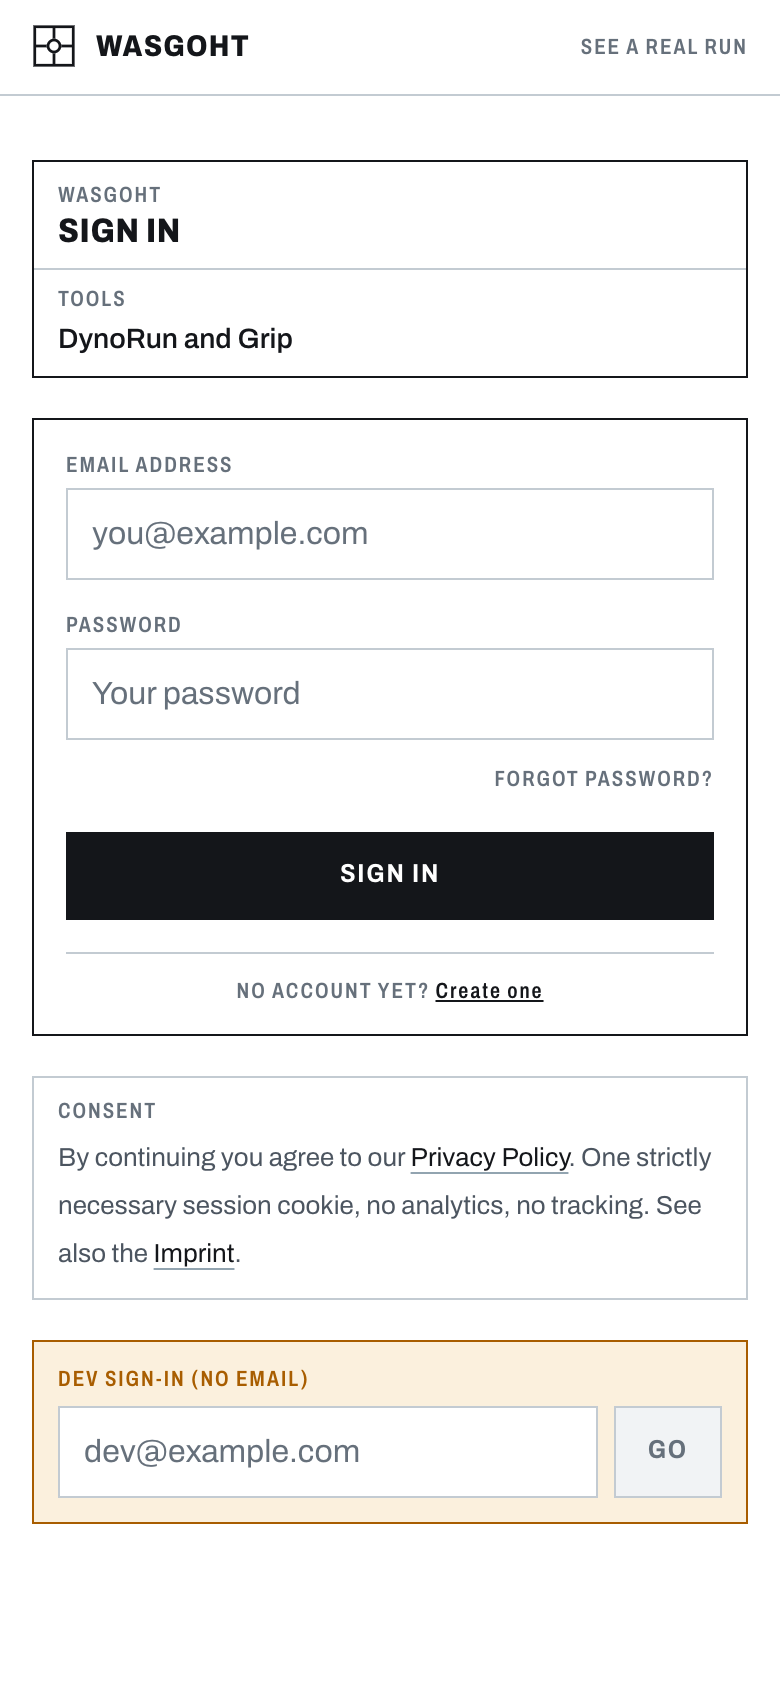
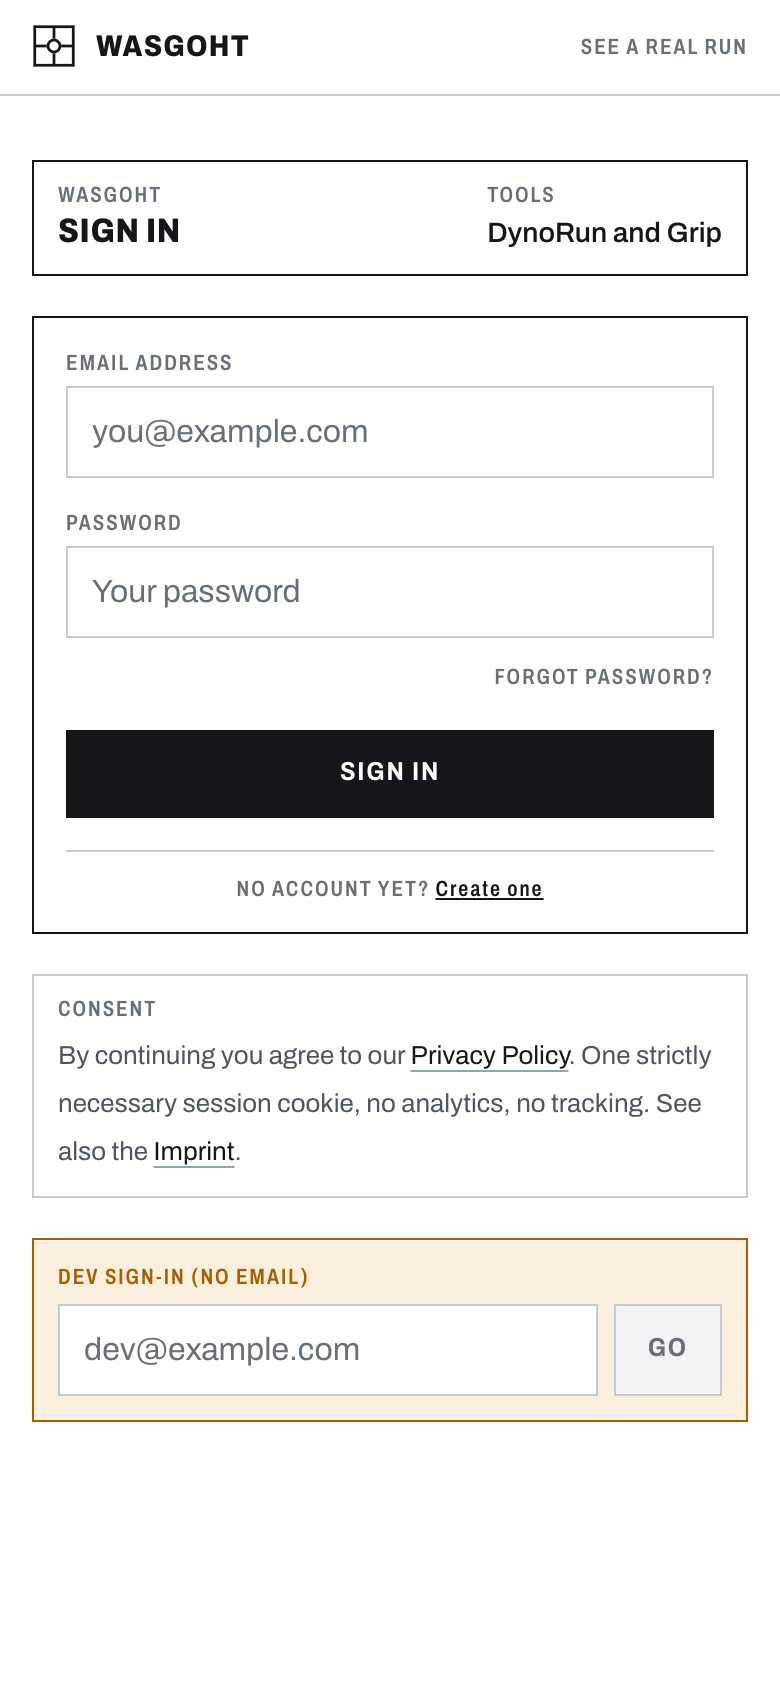
Third batch: the frame violation and the last of the repetition
The overflow was mine. Fix 8 set grid-template-columns inline, which
beats the responsive class, so four meta cells stayed four-across at
390 px and the last one's control pushed straight through the frame's
right hairline and off the viewport. In a world built on boxed frames
that is the loudest thing on a page. The counts now travel as custom
properties and the breakpoint lives in CSS where it can be overridden.
Probed at 390 and 1440 across all three public routes: no element
crosses the viewport, scrollWidth equals viewport width everywhere.

A single meta cell no longer gets a ruled row of its own. Stretched
across a wide frame it read as a four-cell table with three cells
deleted, so it now sits beside the title instead.

The last of the annotation grammar. uPlot ticks drop to 10px to match
the landing plots' target exactly, tick dashes are off, and the axis
draws an ink spine, because the landing plots draw a heavy axis line
with unmarked ticks and two renditions of the same instrument cannot
draw their furniture two different ways.

Three closing bands, three shapes. The previous remedy moved the
repetition rather than resolving it: separating the closing frame from
the two tool sections landed it on the shape of the two blocks directly
above it. Notes now read as a term-and-prose list, the procedure keeps
the three-across cells because it is a sequence and that is what those
cells are for, and the closing apparatus contracts to one ruled line of
short facts.

Changed region(s): [[0.0308, 0.154, 0.9846, 0.9242], [0.6154, 0.0924, 0.9231, 0.154], [0.8923, 0.2156, 0.9231, 0.3081]]

diff --git a/src/ui/home/landing-screen.tsx b/src/ui/home/landing-screen.tsx
@@ -936,7 +936,7 @@ export function LandingScreen() {
           </section>
 
           <Zone label="Notes" note="What these measurements are worth">
-            <div className="grid lg:grid-cols-3">
+            <div className="grid">
               {[
                 {
                   head: 'Wheel power',
@@ -953,10 +953,10 @@ export function LandingScreen() {
               ].map((n, i) => (
                 <div
                   key={n.head}
-                  className={`border-rule px-4 py-4 ${i > 0 ? 'border-t lg:border-l lg:border-t-0' : ''}`}
+                  className={`grid gap-x-6 gap-y-1 px-4 py-4 sm:grid-cols-[minmax(0,10rem)_minmax(0,1fr)] ${i > 0 ? 'rule-t' : ''}`}
                 >
                   <p className="t-label">{n.head}</p>
-                  <p className="t-body mt-2 text-[0.8125rem] leading-6">{n.body}</p>
+                  <p className="t-body text-[0.8125rem] leading-6">{n.body}</p>
                 </div>
               ))}
             </div>
@@ -995,18 +995,15 @@ export function LandingScreen() {
             {/* A ruled strip, not a third right-hand column: the two tool
                 sections above already own that shape, and repeating it a third
                 time turns the page into a template. */}
-            <dl className="rule-t grid sm:grid-cols-3">
+            <dl className="rule-t flex flex-wrap gap-x-10 gap-y-2 px-4 py-3 sm:px-8">
               {[
-                { term: 'What it costs', def: 'Nothing. There is no paid plan today.' },
-                { term: 'What you need', def: 'A phone with GPS. No rollers, no dongle, no drum.' },
-                { term: 'What we store', def: 'Your vehicles, runs and sessions. One session cookie, no analytics.' },
-              ].map((row, i) => (
-                <div
-                  key={row.term}
-                  className={`border-rule px-4 py-4 sm:px-6 ${i > 0 ? 'border-t sm:border-l sm:border-t-0' : ''}`}
-                >
+                { term: 'Costs', def: 'Nothing today' },
+                { term: 'Needs', def: 'A phone with GPS' },
+                { term: 'Stores', def: 'Your runs, one session cookie' },
+              ].map((row) => (
+                <div key={row.term} className="flex items-baseline gap-2">
                   <dt className="t-annotation">{row.term}</dt>
-                  <dd className="t-body mt-1.5 text-[0.8125rem] leading-6">{row.def}</dd>
+                  <dd className="t-data text-[0.8125rem]">{row.def}</dd>
                 </div>
               ))}
             </dl>

diff --git a/src/ui/plate/plate.tsx b/src/ui/plate/plate.tsx
@@ -1,4 +1,4 @@
-import type { ReactNode } from 'react';
+import type { CSSProperties, ReactNode } from 'react';
 import { Link } from 'react-router-dom';
 
 /**
@@ -39,25 +39,33 @@ export function TitleBlock({
           {ident && <p className="t-annotation mb-1 truncate">{ident}</p>}
           <h1 className="t-plate-title">{title}</h1>
         </div>
+        {meta && meta.length === 1 && (
+          <div className="min-w-0">
+            <p className="t-annotation">{meta[0].label}</p>
+            <p className="t-data mt-1 text-sm">{meta[0].value}</p>
+          </div>
+        )}
         {actions && <div className="flex shrink-0 flex-wrap items-center gap-2">{actions}</div>}
       </div>
-      {meta && meta.length > 0 && (
+      {meta && meta.length > 1 && (
         <dl
-          className="rule-t grid grid-cols-2"
-          style={{
-            // Track sized to the cells present. A fixed four-column grid put
-            // two cells at a quarter of a narrow column each, so both wrapped
-            // inside a row that was mostly blank sheet.
-            gridTemplateColumns: `repeat(${Math.min(meta.length, 4)}, minmax(0, 1fr))`,
-          }}
+          className="rule-t meta-grid"
+          style={
+            {
+              // The track is sized to the cells present, at each breakpoint, and
+              // it has to come through custom properties rather than an inline
+              // grid-template: an inline template beats the responsive class and
+              // held four cells four-across on a phone, which pushed the last
+              // cell's control straight through the frame's right hairline.
+              '--meta-cols': Math.min(meta.length, 4),
+              '--meta-cols-narrow': Math.min(meta.length, 2),
+            } as CSSProperties
+          }
         >
-          {meta.map((m, i) => (
-            <div
-              key={m.label}
-              className={`px-3 py-2 sm:px-4 ${i > 0 ? 'rule-l' : ''} ${i >= 2 ? 'rule-t sm:border-t-0' : ''}`}
-            >
+          {meta.map((m) => (
+            <div key={m.label} className="meta-cell px-3 py-2 sm:px-4">
               <dt className="t-annotation">{m.label}</dt>
-              <dd className="t-data mt-1 text-sm">{m.value}</dd>
+              <dd className="t-data mt-1 min-w-0 text-sm">{m.value}</dd>
             </div>
           ))}
         </dl>

diff --git a/src/index.css b/src/index.css
@@ -258,6 +258,42 @@
 }
 
 @layer components {
+  /* ----------------------------------------------------------- meta grid --- */
+  /* The title block's marginal cells. Counts arrive as custom properties so the
+     breakpoint can live here: an inline grid-template on the element beat the
+     responsive class and kept four cells four-across on a phone. */
+  .meta-grid {
+    display: grid;
+    grid-template-columns: repeat(var(--meta-cols-narrow, 2), minmax(0, 1fr));
+  }
+
+  .meta-cell + .meta-cell {
+    border-left: var(--rule-hair) solid var(--color-rule);
+  }
+
+  /* Every cell that starts a new row takes a top rule instead of a left one. */
+  .meta-grid > .meta-cell:nth-child(n + 3) {
+    border-top: var(--rule-hair) solid var(--color-rule);
+  }
+
+  .meta-grid > .meta-cell:nth-child(odd):not(:first-child) {
+    border-left: 0;
+  }
+
+  @media (min-width: 640px) {
+    .meta-grid {
+      grid-template-columns: repeat(var(--meta-cols, 4), minmax(0, 1fr));
+    }
+
+    .meta-grid > .meta-cell:nth-child(n + 3) {
+      border-top: 0;
+    }
+
+    .meta-grid > .meta-cell:nth-child(odd):not(:first-child) {
+      border-left: var(--rule-hair) solid var(--color-rule);
+    }
+  }
+
   /* ---------------------------------------------------------------- uplot --- */
   /* uPlot ships its own legend, cursor and axis chrome. Left alone it renders a
      centred "Value:" row with a default marker box, which is exactly the

diff --git a/src/ui/components/uplot-theme.ts b/src/ui/components/uplot-theme.ts
@@ -12,8 +12,10 @@ import { readPlateInk, seriesInk, SERIES_DASH, type PlateInk } from '@/ui/plate/
 
 const FAMILY = 'Archivo, system-ui, -apple-system, sans-serif';
 
-export const CHART_FONT = `500 11px ${FAMILY}`;
-export const CHART_LABEL_FONT = `700 11px ${FAMILY}`;
+// 10px matches the hand-drawn landing plots' tick target exactly, so the
+// two renditions of the same instrument do not read at different sizes.
+export const CHART_FONT = `600 10px ${FAMILY}`;
+export const CHART_LABEL_FONT = `700 10px ${FAMILY}`;
 export const HOVER_POINT_SIZE = 9;
 
 const MOBILE_BREAKPOINT = 640;
@@ -93,7 +95,11 @@ export function themedAxis(opts: ThemedAxisOptions = {}): uPlot.Axis {
     font: CHART_FONT,
     labelFont: CHART_LABEL_FONT,
     grid: { stroke: ink.ruleFaint, width: 1, show: opts.showGrid !== false },
-    ticks: { stroke: ink.rule, width: 1 },
+    // No tick dashes, and an ink spine: the landing plots draw a heavy axis
+    // line with unmarked ticks, and two plots of the same instrument cannot
+    // draw their axis furniture two different ways.
+    ticks: { show: false },
+    border: { show: true, stroke: ink.ink, width: 1.5 },
   };
   if (opts.label !== undefined) axis.label = opts.label;
   if (opts.scale !== undefined) axis.scale = opts.scale;
